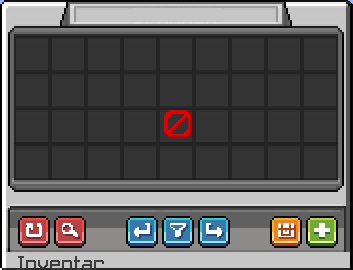
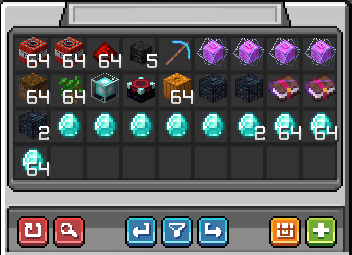
Update showcase with auction filters and history screenshots

diff --git a/README.md b/README.md
@@ -10,24 +10,36 @@ Mit **HugoAuctions** bekommen Paper-Server ein eigenes, konfigurierbares Auktion
 
 - **Schnellzugriff:** Auktionshaus mit `/ah` öffnen.
 - **Leistungsstarke Suche:** Items nach Namen oder Verzauberungen finden, auch auf verzauberten Büchern. Die Suche versteht beispielsweise `sharpness` und `Schärfe`.
-- **Sortierung und Filter:** Angebote nach Aktualität oder Preis sortieren und mit Stack-Filtern eingrenzen.
+- **Sortierung und Stack-Filter:** Angebote nach Aktualität oder Preis sortieren und die Ansicht auf alle Angebote, ganze Stacks oder einzelne Items filtern.
 - **Geführtes Erstellen und Kaufen:** Item auswählen, Preis festlegen und Angebot oder Kauf im GUI bestätigen.
 - **Konfigurierbare Regeln:** Preise, Laufzeit, Angebotslimits, Bestätigungsdialoge sowie Einstellgebühren und Verkaufssteuer in der `config.yml` anpassen.
 - **Wirtschaftssysteme:** Automatische Erkennung von LuckySMP oder Vault, alternativ eine integrierte Kontoführung.
 - **Verlauf und sichere Zustellung:** Auktionsereignisse werden gespeichert; Items werden bei erfolgreichem Abschluss sicher zugestellt.
 - **Passende GUI:** Optionales Ressourcenpaket mit eigenen Auktionshaus-Icons.
 
-![HugoAuctions GUI](docs/media/HugoAuctions-GUI.png)
+## Auktionshaus
+
+![Angebote im HugoAuctions-Auktionshaus](docs/media/HugoAuctions-GUI.png)
+
+Das Hauptmenü zeigt aktuelle Angebote in einem übersichtlichen Inventar. Über die Symbolleiste erreichst du Suche, Navigation, Filter, deine Auktionen und das Erstellen neuer Angebote.
+
+## Sortierung und Stack-Filter
+
+![Sortierung und Stack-Filter](docs/media/HugoAuctions-Filter.png)
+
+Per Linksklick wechselst du die Sortierung. Per Rechtsklick stellst du den Stack-Filter um: alle Angebote, nur ganze Stacks oder nur einzelne Items.
+
+## Deine Auktionen
+
+![Übersicht deiner Auktionen](docs/media/HugoAuctions-Deine-Auktionen.png)
+
+Die persönliche Übersicht trennt laufende, verkaufte, gekaufte und abgelaufene Auktionen. Außerdem siehst du deine Ausgaben und Einnahmen.
 
 ## Voraussetzungen
 
 - Paper 1.21.11 oder kompatibel
 - Optional: LuckySMP 1.5.27+ oder Vault mit Economy-Provider
 
-HugoAuctions ist für Serverbetreiber gedacht, die ihr Auktionshaus an ihre Regeln und ihr Wirtschaftssystem anpassen möchten.
-
-**Projekt:** HugoSMP - Auction  
-**Plugin:** HugoAuctions  
 **Befehle:** `/ah`, `/auction`, `/auctionhouse`
 
-*Projektvorstellung: Dieses Repository enthält die Beschreibung und Vorschaubilder. Plugin-JARs und Installationsdateien werden hier nicht bereitgestellt.*
+*Dieses Repository stellt HugoAuctions mit Beschreibung und Vorschaubildern vor. Plugin-JARs und Installationsdateien werden hier nicht bereitgestellt.*
